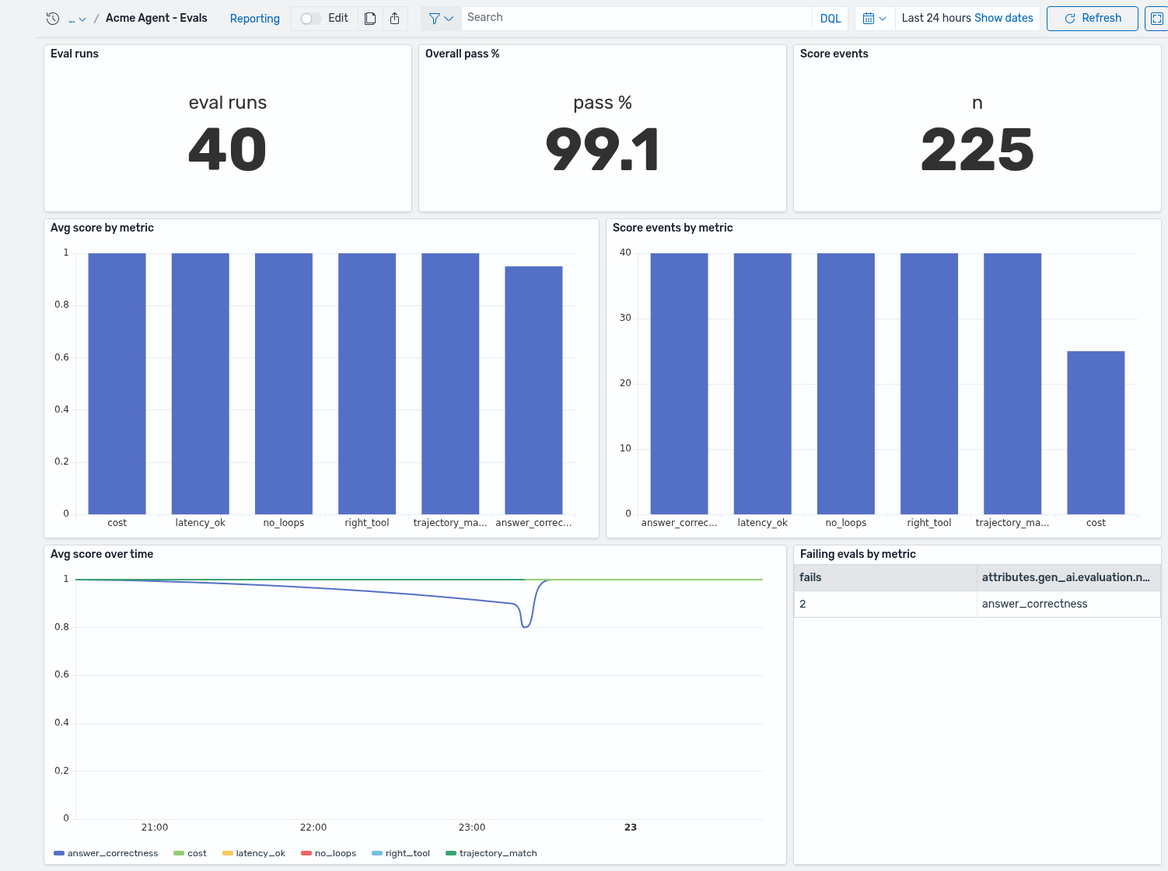
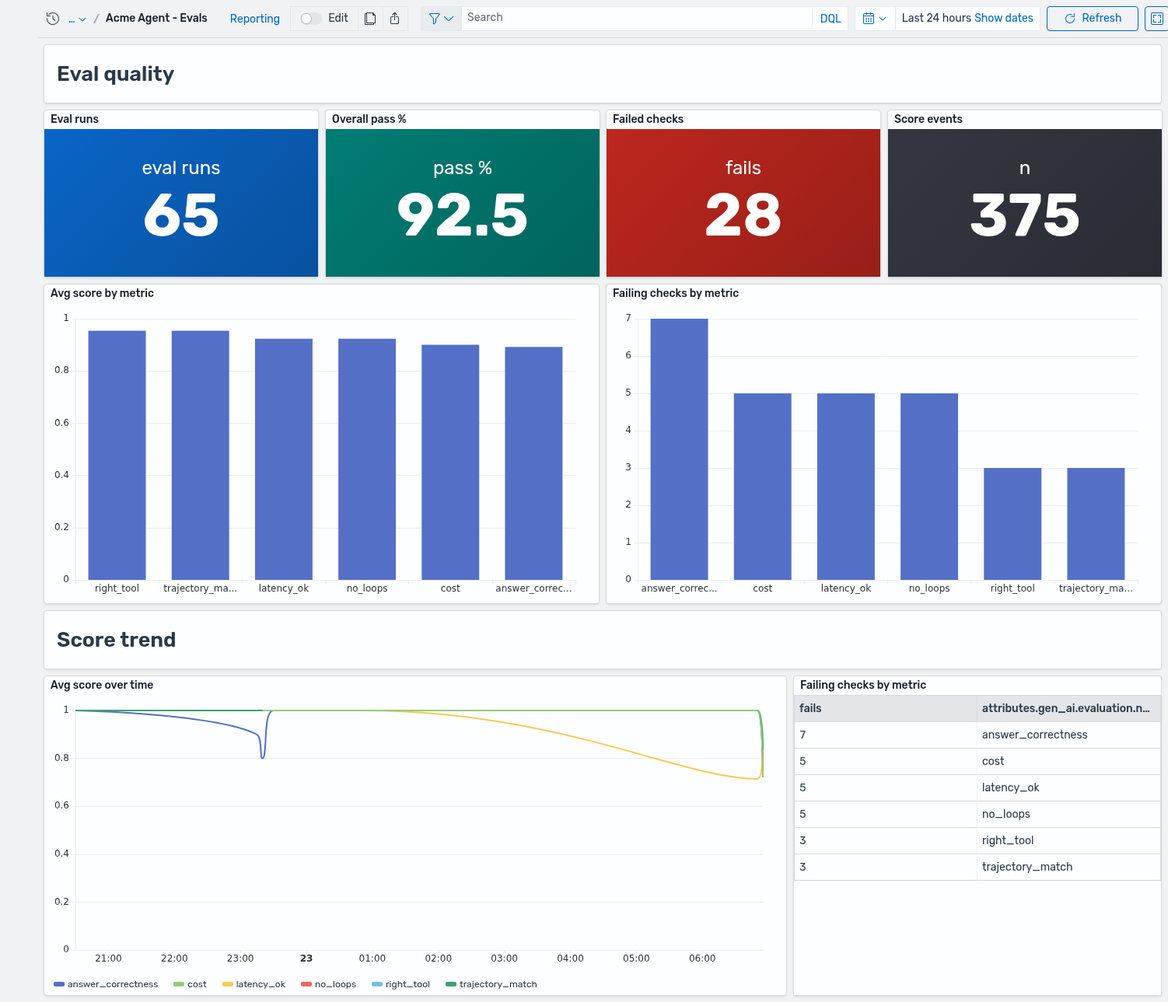
feat: dashboards v2 — threshold colors, section headers, error-rate/latency/cost/tool panels; env-gated fault injection + demo-data generator

diff --git a/acme-support-agent/dashboards/acme-dashboards-init.py b/acme-support-agent/dashboards/acme-dashboards-init.py
@@ -2,8 +2,8 @@
 """Curated dashboard init for the Acme Support Agent.
 
 Creates two agent dashboards ("Acme Agent - Run Details" and "Acme Agent - Evals")
-from PPL + PromQL `explore` panels, and removes the stack's demo dashboards so the
-Dashboards home shows only what this tutorial needs.
+from PPL + PromQL `explore` panels (plus Markdown section headers), and removes the
+stack's demo dashboards so Dashboards shows only what this tutorial needs.
 
 Runs after the stack's own `opensearch-dashboards-init` (which creates the index
 patterns and the `ObservabilityStack_Prometheus` data connection this relies on).
@@ -30,13 +30,14 @@ PROM = "ObservabilityStack_Prometheus"
 H = {"osd-xsrf": "true", "Content-Type": "application/json"}
 S = requests.Session(); S.auth = (USER, PW); S.verify = False
 
-# Demo dashboards to remove ("keep only what we need").
 DEMO_TITLES = {"Astronomy Shop", "Astronomy shop - service telemetry"}
+
+# colors
+GREEN = "#017D73"; RED = "#BD271E"; BLUE = "#0a65c6"; AMBER = "#F5A700"; SLATE = "#343741"
 
 
 def _req(method, path, **kw):
-    r = S.request(method, f"{BASE}{path}", headers=H, timeout=30, **kw)
-    return r
+    return S.request(method, f"{BASE}{path}", headers=H, timeout=30, **kw)
 
 
 def wait_for_osd():
@@ -55,10 +56,10 @@ def find_workspace_id():
     for w in r.json().get("result", {}).get("workspaces", []):
         if w.get("name") == WORKSPACE_NAME:
             return w.get("id")
-    return None  # default workspace
+    return None
 
 
-def wp(ws):  # workspace path prefix
+def wp(ws):
     return f"/w/{ws}" if ws else ""
 
 
@@ -70,7 +71,7 @@ def find_index_pattern_id(ws, title):
     raise SystemExit(f"index-pattern {title!r} not found - is the stack init done?")
 
 
-# --- explore panel builders -------------------------------------------------
+# --- panel builders ---------------------------------------------------------
 
 def _ppl_dataset(span_id):
     return {"id": span_id, "title": SPAN_PATTERN, "type": "INDEX_PATTERN", "timeFieldName": "endTime"}
@@ -105,36 +106,49 @@ def promql_panel(pid, title, promql, chart_type, viz_params, axes):
         "references": [{"id": PROM, "name": "kibanaSavedObjectMeta.searchSourceJSON.index", "type": "index-pattern"}]}
 
 
-# reusable viz param blocks (copied from the stack's own sample panels)
-P_METRIC = {"showTitle": True, "title": "", "showPercentage": False, "valueCalculation": "total",
-            "thresholdOptions": {"baseColor": "#0a65c6", "thresholds": []}, "useThresholdColor": False,
-            "textMode": "value_and_name", "colorMode": "none"}
-P_METRIC_LAST = {**P_METRIC, "valueCalculation": "last"}
+def md_panel(pid, _title, markdown):
+    # Blank title so the panel chrome shows only the Markdown heading, not a title bar.
+    vis = {"title": "", "type": "markdown",
+           "params": {"markdown": markdown, "openLinksInNewTab": True, "fontSize": 14},
+           "aggs": []}
+    return {"id": pid, "type": "visualization", "attributes": {
+        "title": "", "visState": json.dumps(vis), "uiStateJSON": "{}", "description": "", "version": 1,
+        "kibanaSavedObjectMeta": {"searchSourceJSON": json.dumps({"query": {"query": "", "language": "kuery"}, "filter": []})}},
+        "references": []}
+
+
+def metric_params(base=BLUE, thresholds=None, calc="total", text="value_and_name"):
+    return {"showTitle": True, "title": "", "showPercentage": False, "valueCalculation": calc,
+            "thresholdOptions": {"baseColor": base, "thresholds": thresholds or []},
+            "useThresholdColor": True, "textMode": text, "colorMode": "background_gradient"}
+
+
 P_PIE = {"addTooltip": True, "addLegend": True, "legendPosition": "right", "legendTitle": "",
          "tooltipOptions": {"mode": "all"}, "exclusive": {"donut": True, "showValues": True, "showLabels": True, "truncate": 100}}
 P_BARH = {"addLegend": False, "barBorderColor": "#000000", "barBorderWidth": 1, "barPadding": 0.1,
           "barSizeMode": "auto", "barWidth": 0.7, "legendPosition": "bottom", "legendTitle": "",
           "showBarBorder": False, "showFullTimeRange": False, "stackMode": "none",
-          "switchAxes": True, "thresholdOptions": {"baseColor": "#0a65c6", "thresholds": [], "thresholdStyle": "off"},
+          "switchAxes": True, "thresholdOptions": {"baseColor": BLUE, "thresholds": [], "thresholdStyle": "off"},
           "titleOptions": {"show": False, "titleName": ""}, "tooltipOptions": {"mode": "all"}}
 _AXES = [{"position": "bottom", "show": True, "labels": {"show": True, "filter": True, "rotate": 0, "truncate": 100}, "title": {"text": ""}, "grid": {"showLines": False}, "axisRole": "x"},
          {"position": "left", "show": True, "labels": {"show": True, "filter": True, "rotate": 0, "truncate": 100}, "title": {"text": ""}, "grid": {"showLines": True}, "axisRole": "y"}]
 P_LINE = {"addLegend": True, "legendTitle": "", "legendPosition": "bottom", "addTimeMarker": False,
           "lineStyle": "line", "lineMode": "smooth", "lineWidth": 2, "tooltipOptions": {"mode": "all"},
-          "thresholdOptions": {"baseColor": "#00BD6B", "thresholds": [], "thresholdStyle": "off"},
+          "thresholdOptions": {"baseColor": GREEN, "thresholds": [], "thresholdStyle": "off"},
           "standardAxes": _AXES, "showFullTimeRange": False}
 P_TABLE = {"pageSize": 20, "globalAlignment": "left", "showColumnFilter": False, "showFooter": False,
            "footerCalculations": [], "cellTypes": [], "thresholds": [], "baseColor": "#000000",
            "dataLinks": [], "visibleColumns": [], "hiddenColumns": []}
 
 
-def dashboard(did, title, panel_ids, gridspec, variables=None):
+def dashboard(did, title, layout, variables=None):
+    """layout: list of (obj, x, y, w, h)."""
     panels, refs = [], []
-    for i, (pid, x, y, w, h) in enumerate(zip(panel_ids, *zip(*gridspec)) if False else _zip_grid(panel_ids, gridspec)):
+    for i, (obj, x, y, w, h) in enumerate(layout):
         name = f"panel_{i}"
         panels.append({"gridData": {"x": x, "y": y, "w": w, "h": h, "i": str(i)},
                        "panelIndex": str(i), "version": "3.0.0", "panelRefName": name})
-        refs.append({"id": pid, "name": name, "type": "explore"})
+        refs.append({"id": obj["id"], "name": name, "type": obj["type"]})
     attrs = {"title": title, "description": "", "panelsJSON": json.dumps(panels),
              "optionsJSON": json.dumps({"useMargins": True, "hidePanelTitles": False}),
              "version": 1, "timeRestore": True, "timeFrom": "now-24h", "timeTo": "now",
@@ -142,13 +156,6 @@ def dashboard(did, title, panel_ids, gridspec, variables=None):
     if variables:
         attrs["variablesJSON"] = json.dumps({"variables": variables})
     return {"id": did, "type": "dashboard", "attributes": attrs, "references": refs}
-
-
-def _zip_grid(panel_ids, gridspec):
-    out = []
-    for pid, (x, y, w, h) in zip(panel_ids, gridspec):
-        out.append((pid, x, y, w, h))
-    return out
 
 
 def create(ws, obj):
@@ -165,44 +172,64 @@ def delete_demo_dashboards(ws):
     r = _req("GET", f"{wp(ws)}/api/saved_objects/_find?type=dashboard&per_page=100&fields=title")
     for o in r.json().get("saved_objects", []):
         if o["attributes"].get("title") in DEMO_TITLES:
-            d = _req("DELETE", f"{wp(ws)}/api/saved_objects/dashboard/{o['id']}?force=true")
-            print(f"  deleted demo dashboard {o['attributes'].get('title')!r} [{d.status_code}]")
+            _req("DELETE", f"{wp(ws)}/api/saved_objects/dashboard/{o['id']}?force=true")
+            print(f"  deleted demo dashboard {o['attributes'].get('title')!r}")
+
+
+IN = "cast(`attributes.gen_ai.usage.input_tokens` as int)"
+OUT = "cast(`attributes.gen_ai.usage.output_tokens` as int)"
+OP = "`attributes.gen_ai.operation.name`"
 
 
 def build(span_id):
     R = "acme-run"; E = "acme-eval"
-    run_panels = [
-        ppl_panel(f"{R}-llm-calls", "LLM calls", "| where `attributes.gen_ai.operation.name`='chat' | stats count() as `LLM calls`", "metric", P_METRIC, {"value": ["LLM calls"]}, span_id),
-        ppl_panel(f"{R}-agent-runs", "Agent runs", "| where `attributes.gen_ai.operation.name`='invoke_agent' | stats count() as runs", "metric", P_METRIC, {"value": ["runs"]}, span_id),
-        ppl_panel(f"{R}-sessions", "Sessions", "| where `attributes.gen_ai.conversation.id`!='' | stats dc(`attributes.gen_ai.conversation.id`) as sessions", "metric", P_METRIC, {"value": ["sessions"]}, span_id),
-        ppl_panel(f"{R}-tokens", "Tokens in vs out", "| stats sum(cast(`attributes.gen_ai.usage.input_tokens` as int)) as `tokens in`, sum(cast(`attributes.gen_ai.usage.output_tokens` as int)) as `tokens out`", "table", P_TABLE, {}, span_id),
-        ppl_panel(f"{R}-models", "LLM models used", "| where `attributes.gen_ai.request.model`!='' | stats count() as calls by `attributes.gen_ai.request.model` | sort - calls", "pie", P_PIE, {"size": ["calls"], "color": ["attributes.gen_ai.request.model"]}, span_id),
-        ppl_panel(f"{R}-outcome", "Success vs failure", "| where `attributes.gen_ai.operation.name`='invoke_agent' | eval outcome=if(`status.code`=2,'failure','success') | stats count() as c by outcome", "pie", P_PIE, {"size": ["c"], "color": ["outcome"]}, span_id),
-        ppl_panel(f"{R}-tokens-time", "Tokens over time", "| where cast(`attributes.gen_ai.usage.total_tokens` as int) > 0 | stats sum(cast(`attributes.gen_ai.usage.input_tokens` as int)) as `in`, sum(cast(`attributes.gen_ai.usage.output_tokens` as int)) as `out` by span(endTime,5m)", "line", P_LINE, {"x": ["span(endTime,5m)"], "y": ["in", "out"]}, span_id),
-        ppl_panel(f"{R}-session-tbl", "Sessions by token use", "| where `attributes.gen_ai.conversation.id`!='' | stats count() as spans, sum(cast(`attributes.gen_ai.usage.input_tokens` as int)) as in_tokens by `attributes.gen_ai.conversation.id` | sort - spans", "table", P_TABLE, {}, span_id),
-        promql_panel(f"{R}-ingest-rate", "Span ingest vs export rate", "sum(rate(otelcol_receiver_accepted_spans_total[5m])) or sum(rate(otelcol_exporter_sent_spans_total[5m]))", "line", P_LINE, {"x": ["Time"], "y": ["Value"], "color": ["Series"]}),
-        promql_panel(f"{R}-export-fail", "Span export failures", "sum(otelcol_exporter_send_failed_spans_total) or on() vector(0)", "metric", P_METRIC_LAST, {"value": ["Value"], "time": ["Time"]}),
-    ]
-    run_grid = [(0,0,12,8),(12,0,12,8),(24,0,12,8),(36,0,12,8),
-                (0,8,16,15),(16,8,16,15),(32,8,16,15),
-                (0,23,24,15),(24,23,24,15),(0,38,12,8)]
+    P = lambda *a, **k: ppl_panel(*a, span_id=span_id, **k)
 
-    eval_panels = [
-        ppl_panel(f"{E}-runs", "Eval runs", "| where `attributes.gen_ai.operation.name`='invoke_agent' and `attributes.gen_ai.agent.name`='eval_case' | stats count() as `eval runs`", "metric", P_METRIC, {"value": ["eval runs"]}, span_id),
-        ppl_panel(f"{E}-passpct", "Overall pass %", "| where `attributes.gen_ai.operation.name`='evaluation' | stats avg(`attributes.gen_ai.evaluation.score.value`) as avg_score | eval `pass %` = round(avg_score * 100, 1) | fields `pass %`", "metric", P_METRIC, {"value": ["pass %"]}, span_id),
-        ppl_panel(f"{E}-score-events", "Score events", "| where `attributes.gen_ai.operation.name`='evaluation' | stats count() as n", "metric", P_METRIC, {"value": ["n"]}, span_id),
-        ppl_panel(f"{E}-avg-by-metric", "Avg score by metric", "| where `attributes.gen_ai.operation.name`='evaluation' | stats avg(`attributes.gen_ai.evaluation.score.value`) as score by `attributes.gen_ai.evaluation.name` | sort - score", "bar", P_BARH, {"x": ["attributes.gen_ai.evaluation.name"], "y": ["score"]}, span_id),
-        ppl_panel(f"{E}-count-by-metric", "Score events by metric", "| where `attributes.gen_ai.operation.name`='evaluation' | stats count() as n by `attributes.gen_ai.evaluation.name` | sort - n", "bar", P_BARH, {"x": ["attributes.gen_ai.evaluation.name"], "y": ["n"]}, span_id),
-        ppl_panel(f"{E}-scores-time", "Avg score over time", "| where `attributes.gen_ai.operation.name`='evaluation' | stats avg(`attributes.gen_ai.evaluation.score.value`) as score by span(endTime,5m), `attributes.gen_ai.evaluation.name`", "line", P_LINE, {"x": ["span(endTime,5m)"], "y": ["score"], "color": ["attributes.gen_ai.evaluation.name"]}, span_id),
-        ppl_panel(f"{E}-fails", "Failing evals by metric", "| where `attributes.gen_ai.operation.name`='evaluation' and `attributes.gen_ai.evaluation.score.value` < 1 | stats count() as fails by `attributes.gen_ai.evaluation.name` | sort - fails", "table", P_TABLE, {}, span_id),
+    # ---- Run Details panels ----
+    run = [
+        (md_panel(f"{R}-h1", "hdr", "### Traffic & reliability"), 0, 0, 48, 3),
+        (P(f"{R}-runs", "Agent runs", f"| where {OP}='invoke_agent' | stats count() as runs", "metric", metric_params(BLUE), {"value": ["runs"]}), 0, 3, 10, 8),
+        (P(f"{R}-llm-calls", "LLM calls", f"| where {OP}='chat' | stats count() as `LLM calls`", "metric", metric_params(BLUE), {"value": ["LLM calls"]}), 10, 3, 9, 8),
+        (P(f"{R}-success", "Success rate %", f"| where {OP}='invoke_agent' | eval ok=if(`status.code`=2,0.0,1.0) | stats avg(ok) as a | eval `success %`=round(a * 100, 1) | fields `success %`", "metric", metric_params(GREEN), {"value": ["success %"]}), 19, 3, 10, 8),
+        (P(f"{R}-errrate", "Error rate %", f"| where {OP}='invoke_agent' | eval err=if(`status.code`=2,1.0,0.0) | stats avg(err) as a | eval `error %`=round(a * 100, 1) | fields `error %`", "metric", metric_params(RED), {"value": ["error %"]}), 29, 3, 10, 8),
+        (P(f"{R}-sessions", "Sessions", "| where `attributes.gen_ai.conversation.id`!='' | stats dc(`attributes.gen_ai.conversation.id`) as sessions", "metric", metric_params(SLATE), {"value": ["sessions"]}), 39, 3, 9, 8),
+        (P(f"{R}-outcome", "Success vs failure", f"| where {OP}='invoke_agent' | eval outcome=if(`status.code`=2,'failure','success') | stats count() as c by outcome", "pie", P_PIE, {"size": ["c"], "color": ["outcome"]}), 0, 11, 16, 14),
+        (P(f"{R}-errtbl", "Recent error traces", f"| where `status.code`=2 | fields endTime, name, `events.attributes.exception.message` | sort - endTime | head 20", "table", P_TABLE, {}), 16, 11, 32, 14),
+        (md_panel(f"{R}-h2", "hdr", "### Latency & cost"), 0, 25, 48, 3),
+        (P(f"{R}-p50", "Latency P50 (s)", f"| where {OP}='invoke_agent' | stats percentile(durationInNanos,50) as p | eval `p50 s`=round(p/1000000000.0,2) | fields `p50 s`", "metric", metric_params(BLUE), {"value": ["p50 s"]}), 0, 28, 12, 8),
+        (P(f"{R}-p95", "Latency P95 (s)", f"| where {OP}='invoke_agent' | stats percentile(durationInNanos,95) as p | eval `p95 s`=round(p/1000000000.0,2) | fields `p95 s`", "metric", metric_params(AMBER), {"value": ["p95 s"]}), 12, 28, 12, 8),
+        (P(f"{R}-cost", "Est. cost $ (approx)", f"| stats sum({IN}) as ti, sum({OUT}) as to | eval `est $`=round(ti / 1000000.0 * 3 + to / 1000000.0 * 15, 3) | fields `est $`", "metric", metric_params(GREEN), {"value": ["est $"]}), 24, 28, 12, 8),
+        (P(f"{R}-tokens", "Tokens in vs out", f"| stats sum({IN}) as `tokens in`, sum({OUT}) as `tokens out`", "table", P_TABLE, {}), 36, 28, 12, 8),
+        (P(f"{R}-throughput", "Throughput (runs / 5m)", f"| where {OP}='invoke_agent' | stats count() as runs by span(endTime,5m)", "line", P_LINE, {"x": ["span(endTime,5m)"], "y": ["runs"]}), 0, 36, 24, 14),
+        (P(f"{R}-tokens-time", "Tokens over time", f"| where cast(`attributes.gen_ai.usage.total_tokens` as int) > 0 | stats sum({IN}) as `in`, sum({OUT}) as `out` by span(endTime,5m)", "line", P_LINE, {"x": ["span(endTime,5m)"], "y": ["in", "out"]}), 24, 36, 24, 14),
+        (md_panel(f"{R}-h3", "hdr", "### Models, tools & sessions"), 0, 50, 48, 3),
+        (P(f"{R}-models", "LLM models used", "| where `attributes.gen_ai.request.model`!='' | stats count() as calls by `attributes.gen_ai.request.model` | sort - calls", "pie", P_PIE, {"size": ["calls"], "color": ["attributes.gen_ai.request.model"]}), 0, 53, 16, 15),
+        (P(f"{R}-tools", "Tool usage", f"| where {OP}='execute_tool' | stats count() as calls by `attributes.gen_ai.tool.name` | sort - calls", "bar", P_BARH, {"x": ["attributes.gen_ai.tool.name"], "y": ["calls"]}), 16, 53, 16, 15),
+        (P(f"{R}-session-tbl", "Sessions by token use", f"| where `attributes.gen_ai.conversation.id`!='' | stats count() as spans, sum({IN}) as in_tokens by `attributes.gen_ai.conversation.id` | sort - spans", "table", P_TABLE, {}), 32, 53, 16, 15),
+        (md_panel(f"{R}-h4", "hdr", "### Telemetry pipeline (PromQL / Prometheus)"), 0, 68, 48, 3),
+        (promql_panel(f"{R}-ingest", "Span ingest vs export rate", "sum(rate(otelcol_receiver_accepted_spans_total[5m])) or sum(rate(otelcol_exporter_sent_spans_total[5m]))", "line", P_LINE, {"x": ["Time"], "y": ["Value"], "color": ["Series"]}), 0, 71, 36, 12),
+        (promql_panel(f"{R}-exfail", "Span export failures", "sum(otelcol_exporter_send_failed_spans_total) or on() vector(0)", "metric", metric_params(RED, calc="last"), {"value": ["Value"], "time": ["Time"]}), 36, 71, 12, 12),
     ]
-    eval_grid = [(0,0,16,8),(16,0,16,8),(32,0,16,8),
-                 (0,8,24,15),(24,8,24,15),
-                 (0,23,32,15),(32,23,16,15)]
 
-    d1 = dashboard("acme-agent-run-details", "Acme Agent - Run Details", [p["id"] for p in run_panels], run_grid)
-    d2 = dashboard("acme-agent-evals", "Acme Agent - Evals", [p["id"] for p in eval_panels], eval_grid)
-    return run_panels + eval_panels, [d1, d2]
+    # ---- Evals panels ----
+    EV = f"| where {OP}='evaluation'"
+    ev = [
+        (md_panel(f"{E}-h1", "hdr", "### Eval quality"), 0, 0, 48, 3),
+        (P(f"{E}-runs", "Eval runs", f"| where {OP}='invoke_agent' and `attributes.gen_ai.agent.name`='eval_case' | stats count() as `eval runs`", "metric", metric_params(BLUE), {"value": ["eval runs"]}), 0, 3, 12, 8),
+        (P(f"{E}-pass", "Overall pass %", f"{EV} | stats avg(`attributes.gen_ai.evaluation.score.value`) as a | eval `pass %`=round(a * 100, 1) | fields `pass %`", "metric", metric_params(GREEN), {"value": ["pass %"]}), 12, 3, 12, 8),
+        (P(f"{E}-fails", "Failed checks", f"{EV} and `attributes.gen_ai.evaluation.score.value` < 1 | stats count() as fails", "metric", metric_params(RED), {"value": ["fails"]}), 24, 3, 12, 8),
+        (P(f"{E}-events", "Score events", f"{EV} | stats count() as n", "metric", metric_params(SLATE), {"value": ["n"]}), 36, 3, 12, 8),
+        (P(f"{E}-avg", "Avg score by metric", f"{EV} | stats avg(`attributes.gen_ai.evaluation.score.value`) as score by `attributes.gen_ai.evaluation.name` | sort - score", "bar", P_BARH, {"x": ["attributes.gen_ai.evaluation.name"], "y": ["score"]}), 0, 11, 24, 15),
+        (P(f"{E}-failbymetric", "Failing checks by metric", f"{EV} and `attributes.gen_ai.evaluation.score.value` < 1 | stats count() as fails by `attributes.gen_ai.evaluation.name` | sort - fails", "bar", P_BARH, {"x": ["attributes.gen_ai.evaluation.name"], "y": ["fails"]}), 24, 11, 24, 15),
+        (md_panel(f"{E}-h2", "hdr", "### Score trend"), 0, 26, 48, 3),
+        (P(f"{E}-time", "Avg score over time", f"{EV} | stats avg(`attributes.gen_ai.evaluation.score.value`) as score by span(endTime,5m), `attributes.gen_ai.evaluation.name`", "line", P_LINE, {"x": ["span(endTime,5m)"], "y": ["score"], "color": ["attributes.gen_ai.evaluation.name"]}), 0, 29, 32, 15),
+        (P(f"{E}-failtbl", "Failing checks by metric", f"{EV} and `attributes.gen_ai.evaluation.score.value` < 1 | stats count() as fails by `attributes.gen_ai.evaluation.name` | sort - fails", "table", P_TABLE, {}), 32, 29, 16, 15),
+    ]
+
+    d1 = dashboard("acme-agent-run-details", "Acme Agent - Run Details", run)
+    d2 = dashboard("acme-agent-evals", "Acme Agent - Evals", ev)
+    objs = [o for (o, *_g) in run] + [o for (o, *_g) in ev]
+    return objs, [d1, d2]
 
 
 def main():
@@ -211,10 +238,10 @@ def main():
     span_id = find_index_pattern_id(ws, SPAN_PATTERN)
     print(f"workspace={ws} span_index_pattern={span_id}")
     delete_demo_dashboards(ws)
-    panels, dashboards = build(span_id)
+    objs, dashboards = build(span_id)
     print("creating panels:")
-    for p in panels:
-        create(ws, p)
+    for o in objs:
+        create(ws, o)
     print("creating dashboards:")
     for d in dashboards:
         create(ws, d)

diff --git a/acme-support-agent/python/acme/frameworks/mock_agent.py b/acme-support-agent/python/acme/frameworks/mock_agent.py
@@ -7,14 +7,21 @@ monkeypatch still works, and builds the answer straight from the tool's
 deterministic result. The chat span is still emitted (op=Op.CHAT) so the same
 telemetry shape (invoke_agent -> chat -> execute_tool -> retrieval/embeddings)
 comes out of the trace, just without any real model or embedding call.
+
+Records a deterministic nominal token usage per turn so cost/token dashboards
+are meaningful offline. Honors ACME_FAULT (see acme/faults.py) to emit failure
+telemetry for demos.
 """
 
 from __future__ import annotations
 
 import re
+import time
 
 from ..observability import observe, enrich, Op
 from ..tools import TOOL_FUNCTIONS
+from ..usage import record_usage
+from ..faults import active_faults
 
 _ORDER_HINT_RE = re.compile(r"order")
 _NUMBER_RE = re.compile(r"\d{3,}")
@@ -38,16 +45,13 @@ def _route_and_call(question: str) -> tuple[str, dict]:
     return "search_policy", TOOL_FUNCTIONS["search_policy"](question)
 
 
-@observe(op=Op.CHAT, name="mock-chat")
-def _mock_chat(question: str) -> str:
-    """The mock "model turn" — deterministic routing + answer synthesis."""
-    tool_name, result = _route_and_call(question)
-
+def _answer_from(tool_name: str, result: dict, question: str) -> str:
+    """Synthesize the mock answer from a tool result."""
     if isinstance(result, dict) and result.get("error"):
         if tool_name == "lookup_order":
             return f"Sorry, I couldn't find an order matching {question!r}."
         if tool_name == "check_inventory":
-            return f"Sorry, I couldn't find that SKU."
+            return "Sorry, I couldn't find that SKU."
         return "Sorry, I couldn't find an answer to that in our policy docs."
 
     if tool_name == "lookup_order":
@@ -66,7 +70,43 @@ def _mock_chat(question: str) -> str:
     return result["answer"]
 
 
+def _record_nominal(question: str, answer: str) -> None:
+    """Deterministic token accounting so cost/token panels have data offline."""
+    record_usage(len(question) * 3 + 400, len(answer) * 3 + 40)
+
+
+@observe(op=Op.CHAT, name="mock-chat")
+def _mock_chat(question: str, faults: frozenset = frozenset()) -> str:
+    """The mock "model turn" — deterministic routing + answer synthesis."""
+    # wrong: call the wrong tool and return a non-answer (fails correctness/right_tool/trajectory).
+    if "wrong" in faults:
+        TOOL_FUNCTIONS["search_policy"](question)
+        answer = "I'm not sure about that — please contact Acme support."
+        _record_nominal(question, answer)
+        return answer
+
+    tool_name, result = _route_and_call(question)
+
+    # loop: repeat the tool call so the trace shows a runaway loop (fails no_loops).
+    if "loop" in faults:
+        for _ in range(4):  # 1 call already made above -> 5 execute_tool spans total
+            _route_and_call(question)
+
+    answer = _answer_from(tool_name, result, question)
+    _record_nominal(question, answer)
+    return answer
+
+
 def run_turn(question: str, history: list[dict]) -> str:
     """Offline drop-in for the real framework adapters' run_turn."""
     enrich(model="mock", provider="mock")
-    return _mock_chat(question)
+    faults = frozenset(active_faults())
+
+    if "error" in faults:
+        raise RuntimeError("Simulated Bedrock ThrottlingException: request rate exceeded")
+    if "slow" in faults:
+        time.sleep(9)  # breach LATENCY_BUDGET_S (8s)
+    if "cost" in faults:
+        record_usage(5200, 900)  # exceed TOKEN_BUDGET (4000)
+
+    return _mock_chat(question, faults)

diff --git a/acme-support-agent/python/acme/faults.py b/acme-support-agent/python/acme/faults.py
@@ -1,0 +1,19 @@
+"""Env-gated fault injection for demos (mock mode only).
+
+Set ACME_FAULT to a comma-separated list to make the mock adapter emit failure
+telemetry so the dashboards show real error/latency/loop/cost scenarios:
+
+    error  -> raise a simulated provider error (invoke_agent span = error)
+    slow   -> sleep past the latency budget (latency_ok fails, P95 spike)
+    loop   -> call the tool repeatedly (no_loops fails)
+    wrong  -> call the wrong tool + return a non-answer (correctness/right_tool/trajectory fail)
+    cost   -> record a token blowup over budget (cost fails)
+
+Default (unset) leaves behavior unchanged.
+"""
+from __future__ import annotations
+import os
+
+
+def active_faults() -> set[str]:
+    return {f.strip().lower() for f in os.environ.get("ACME_FAULT", "").split(",") if f.strip()}

diff --git a/acme-support-agent/dashboards/README.md b/acme-support-agent/dashboards/README.md
@@ -4,13 +4,15 @@ Two custom OpenSearch Dashboards for the Acme Support Agent, built entirely from
 **PPL** and **PromQL** `explore` panels (the same saved-object type the stack's own
 samples use):
 
-- **Acme Agent — Run Details** — LLM calls, models used, tokens in/out, success vs
-  failure, sessions, tokens over time (PPL over `otel-v1-apm-span*`), plus span
-  ingest/export throughput and export failures (PromQL over the collector's
-  `otelcol_*` self-metrics).
-- **Acme Agent — Evals** — eval runs, overall pass %, score events, average score
-  and event counts per metric, average score over time, and failing evals by metric
-  (PPL over the `evaluation` spans).
+- **Acme Agent — Run Details** — traffic & reliability (agent runs, LLM calls,
+  success rate %, error rate %, sessions, success/failure, a recent **error-traces**
+  table), latency & cost (P50/P95 latency, est. cost $, tokens in/out), throughput and
+  tokens over time, models used, tool-usage breakdown — PPL over `otel-v1-apm-span*`;
+  plus span ingest/export throughput + export failures (PromQL over the collector's
+  `otelcol_*` self-metrics). KPI tiles are threshold-colored (green good, red bad).
+- **Acme Agent — Evals** — eval runs, overall pass %, failed checks, score events,
+  average score and failing checks per metric, average score over time, and a failing-
+  checks-by-metric table (PPL over the `evaluation` spans).
 
 ![Run Details](../../images/dashboard-run-details.png)
 ![Evals](../../images/dashboard-evals.png)
@@ -42,6 +44,29 @@ OSD_BASE_URL=http://localhost:5601 python acme-support-agent/dashboards/acme-das
 
 Env: `OSD_BASE_URL`, `OSD_USER` (default `admin`), `OSD_PASSWORD`, `WORKSPACE_NAME`
 (default `Observability Stack`), `SPAN_PATTERN` (default `otel-v1-apm-span*`).
+
+## Demo data (fault injection)
+
+To populate the dashboards with a realistic **mix of successes and failures**, run the
+mock-mode generator (offline, deterministic, no credentials):
+
+```bash
+./acme-support-agent/dashboards/demo-data.sh   # stack must be running (OTLP on 4318)
+```
+
+It drives baseline success traffic + a clean eval pass, then injects failures via the
+`ACME_FAULT` env flag (mock adapter only, see `python/acme/faults.py`):
+
+| `ACME_FAULT` | Effect | Shows up as |
+|---|---|---|
+| `error` | raises a simulated `ThrottlingException` | error-rate %, error-traces table, status.code=2 |
+| `slow`  | sleeps past the 8s budget | P95 latency spike, `latency_ok` failures |
+| `loop`  | repeats the tool call | `no_loops` failures |
+| `wrong` | wrong tool + non-answer | `answer_correctness` / `right_tool` / `trajectory_match` failures |
+| `cost`  | records a token blowup over budget | `cost` failures, big token bars |
+
+Wait ~90s for Data Prepper ingestion, then refresh the dashboards. Default (no
+`ACME_FAULT`) behavior is unchanged.
 
 ## Notes
 
